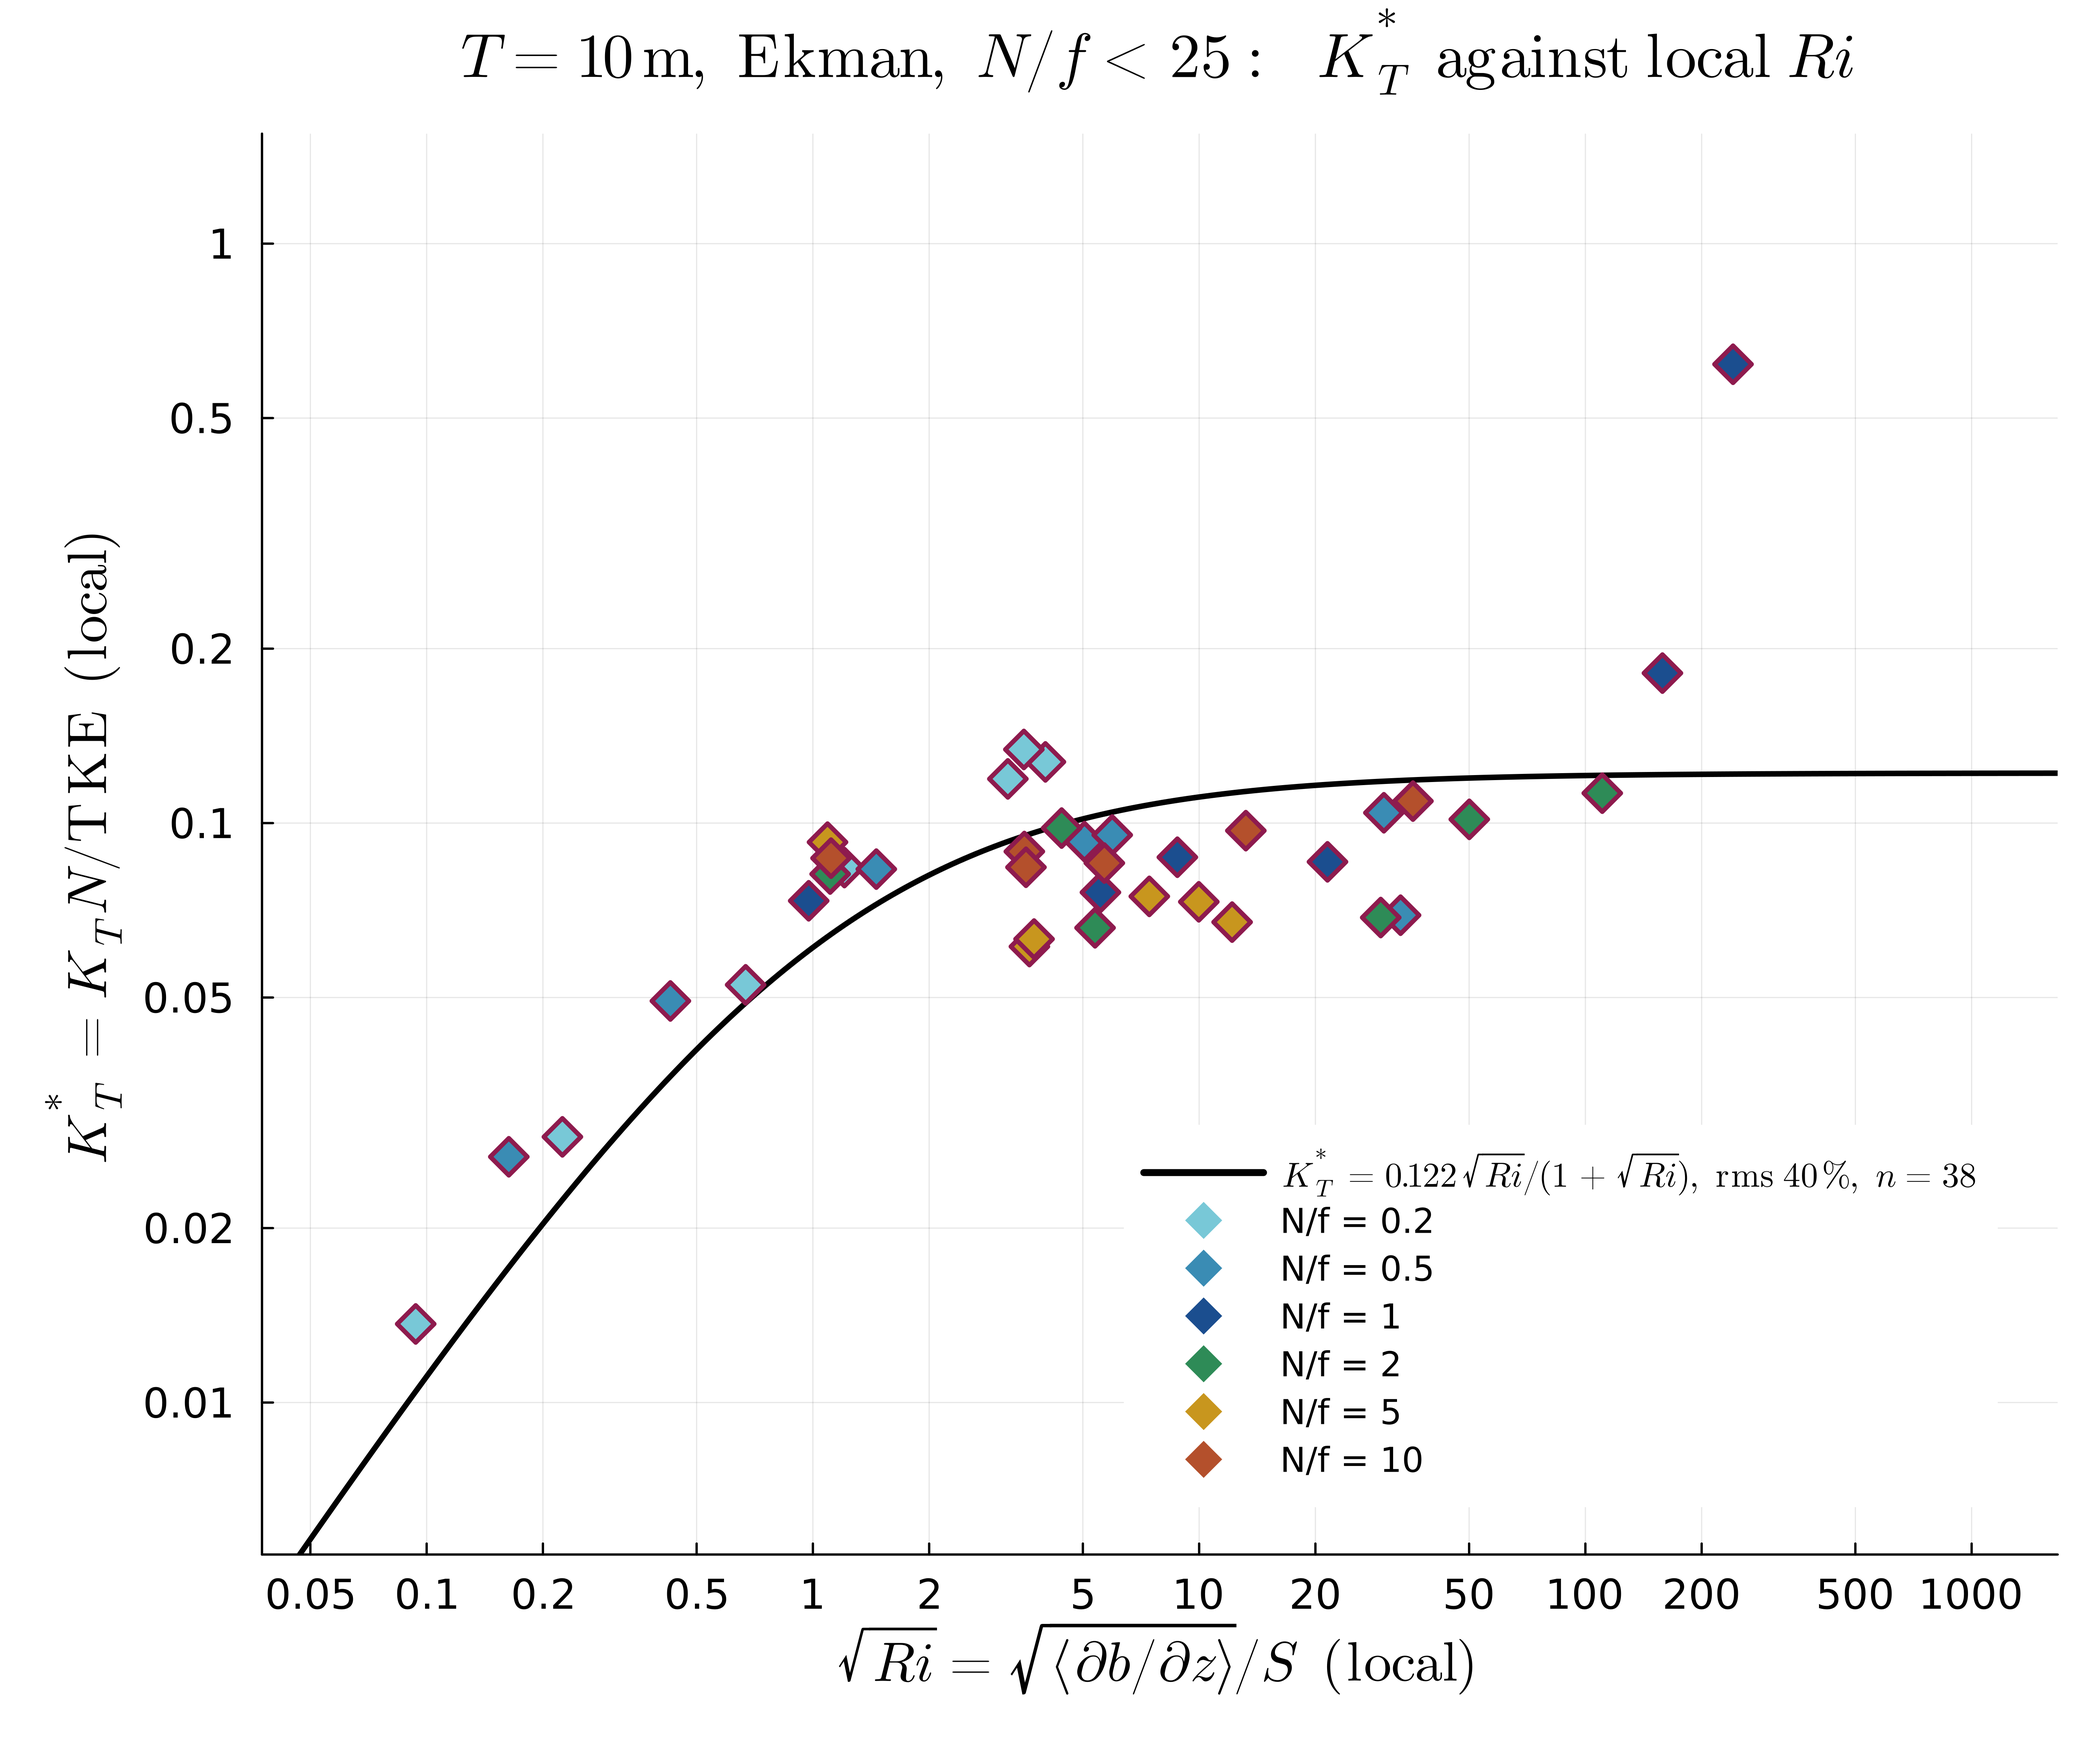
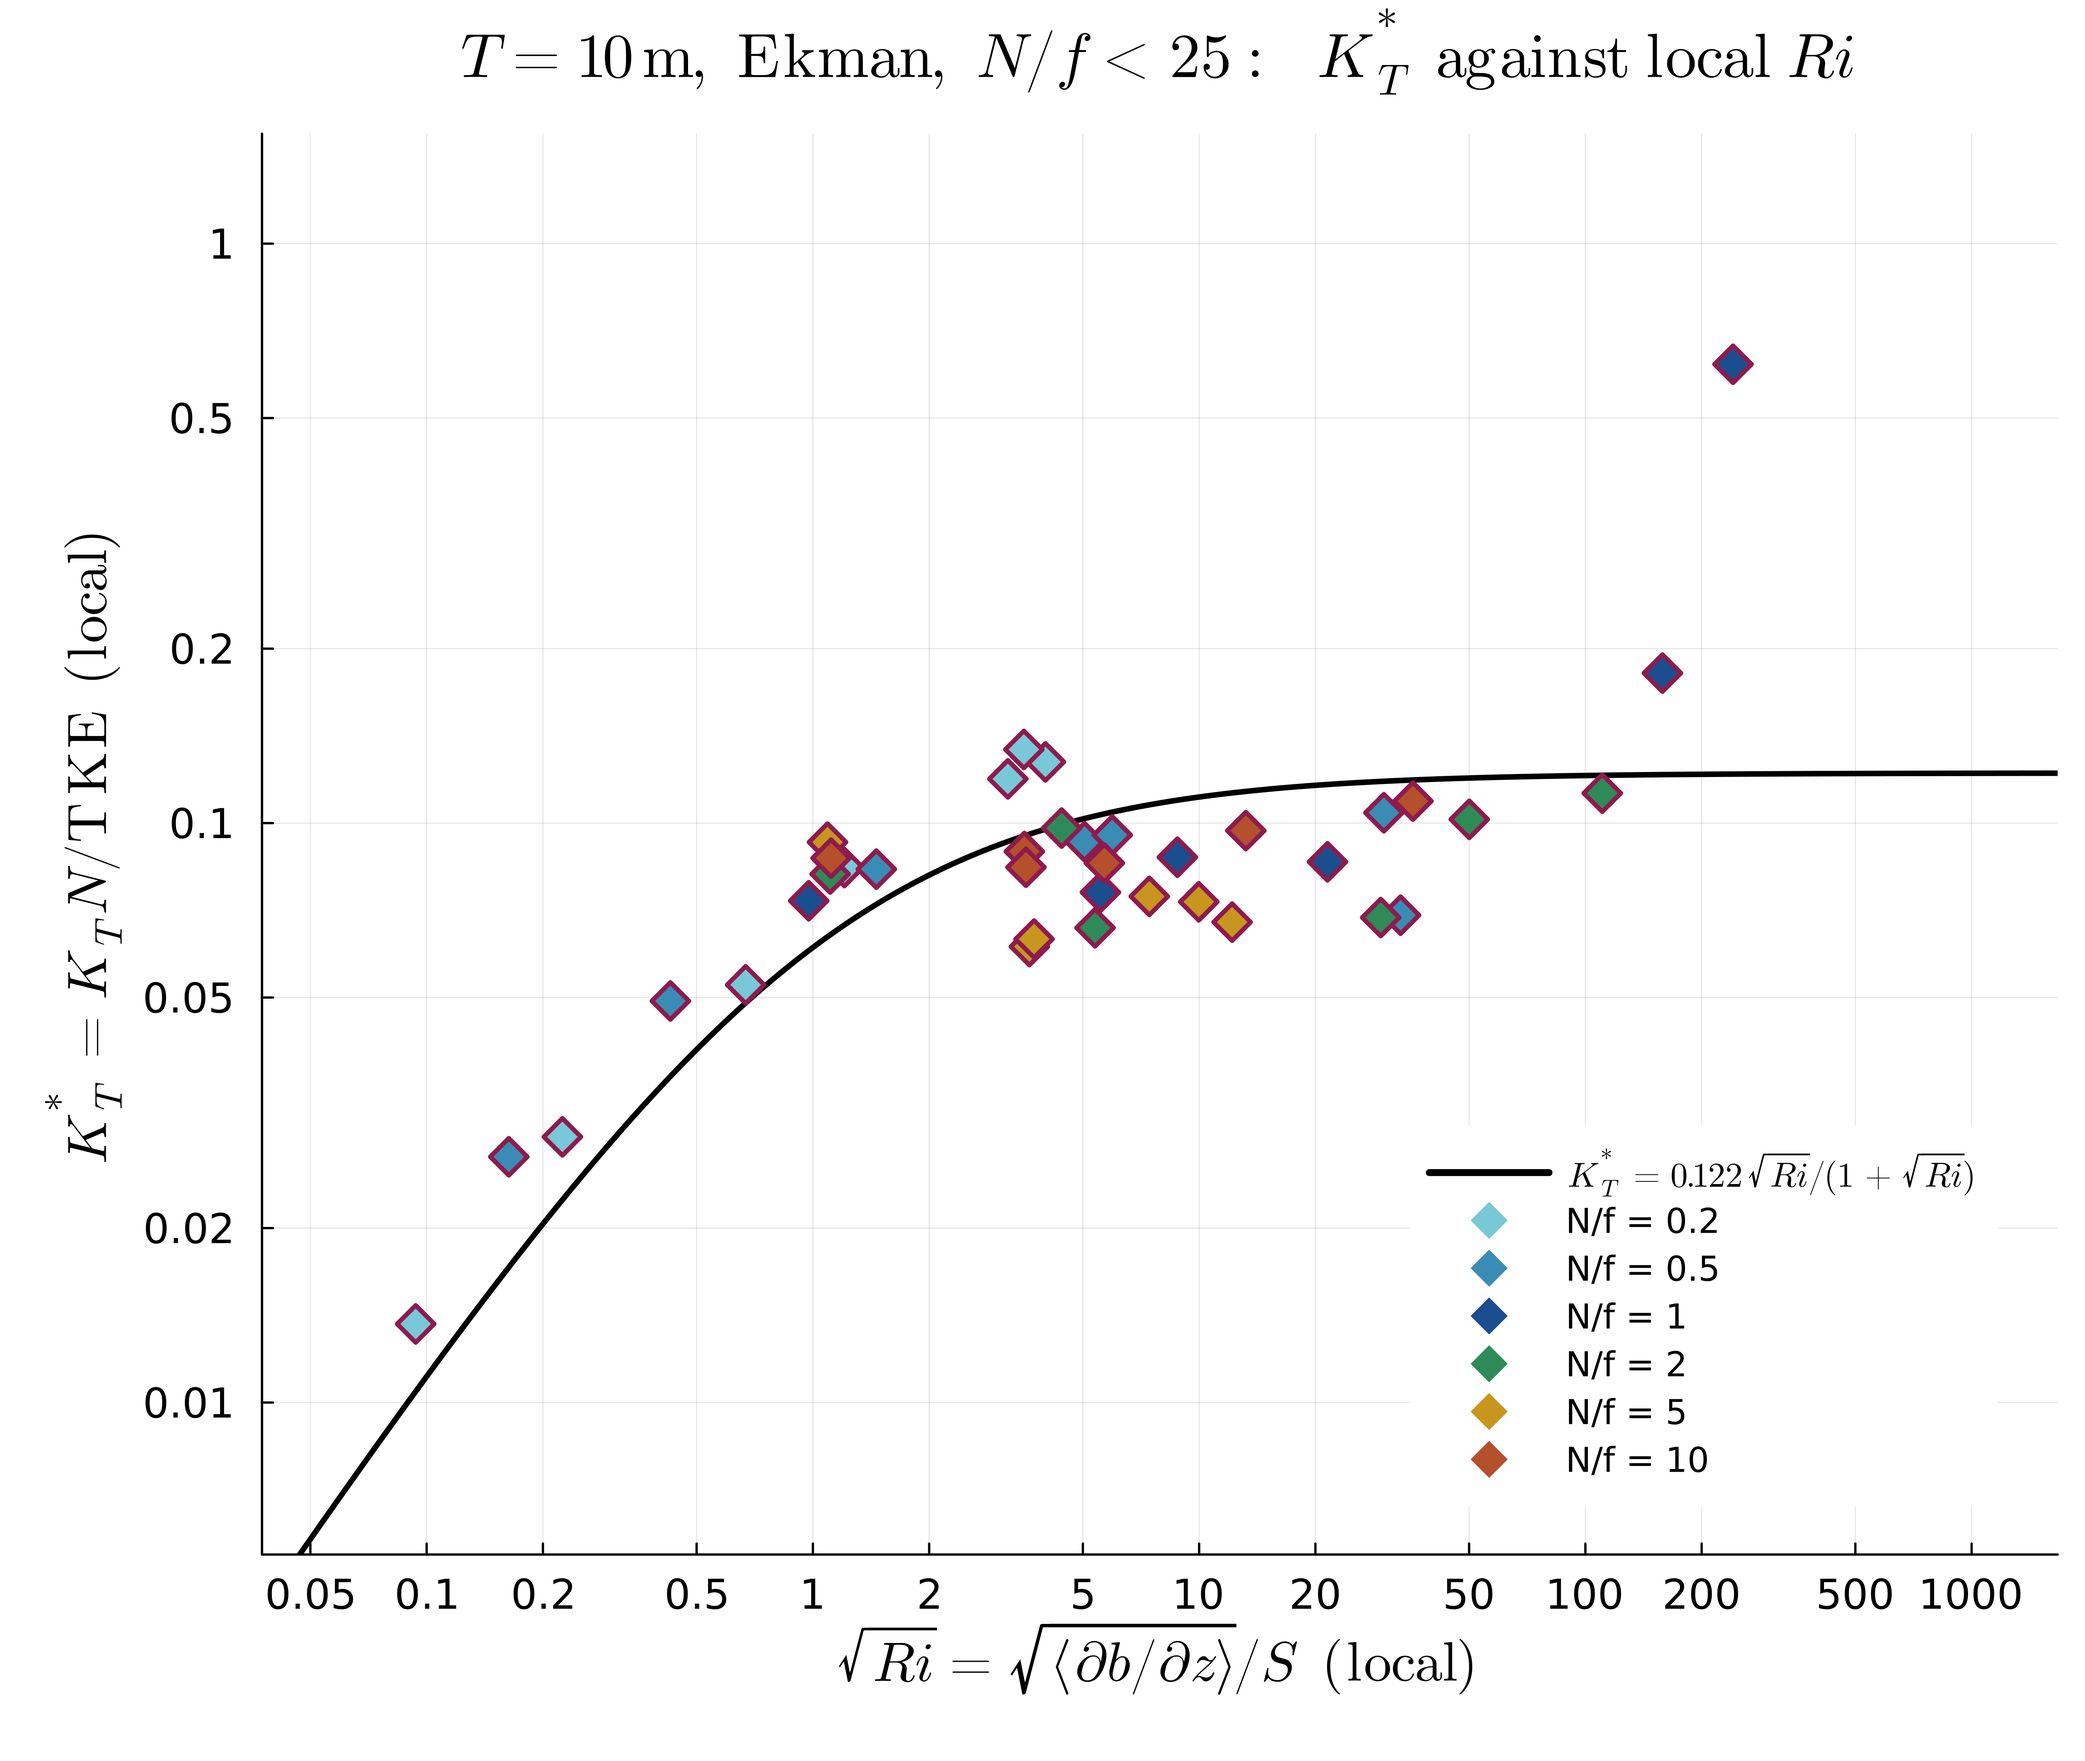
K_T final plot

Changed region(s): [[0.6222, 0.6539, 0.9644, 0.8408], [0.56, 0.6539, 0.5911, 0.8408]]

diff --git a/Combined/README.md b/Combined/README.md
@@ -514,8 +514,12 @@ so it fits worse: 26.3 % at the best height (`z = 10 m = T`), and 30–47 % over
 9–18 m. Inside the layer the gradient falls under the mask and `K_T` is
 discarded; above it `S` dies and `√Ri` runs away. The numbers are in `LOG.txt`.
 
-The panel carries a note that `K_T* ∝ N` and `Ri ∝ N²` share `N`, so some
-correlation is built in, exactly as `L_K` vs `L_harm` shares `√TKE`.
+The figure no longer carries a note, but the caveat stands: `K_T* ∝ N` and
+`Ri ∝ N²` share `N`, so some correlation is built in, exactly as `L_K` vs
+`L_harm` shares `√TKE`. Since 2026-10-09 the figure is trimmed for slides:
+title `T = 10 m, z = h, Stokes`, legend shows the fit (no rms) and the cases,
+and the two asymptote guides are still drawn but unlabelled. The rms is in
+`logs/plot_KTstar_Ri_stokes_T10.log`.
 
 ### Why this is Stokes only
 
@@ -668,7 +672,8 @@ script's Ekman row exactly (`A` = 0.1488, 52.3 %, `n` = 50), which is the check
 that the port is faithful. Two figures, same axis limits so they sit side by side:
 
 - `figures/KTstar_vs_Ri_zscan_ekman_T10.png` — all eight `r`
-- `figures/KTstar_vs_Ri_zscan_ekman_lowr_T10.png` — `r` = 25 and 50 left out (`DROP = 25`)
+- `figures/KTstar_vs_Ri_zscan_ekman_lowr_T10.png` — `r` = 25 and 50 left out (`DROP = 25`);
+  its legend shows the fit only, no rms or `n` (2026-10-09, `stats = false`); the all-`r` one keeps both
 
 | set | `A` | rms | `n` | `Ri` range |
 |---|---|---|---|---|

diff --git a/Combined/HANDOVER.md b/Combined/HANDOVER.md
@@ -177,6 +177,11 @@ one pooled exponential per flow in z/h, equation (no rms) on the figure. Stokes
 TKE/u_*^2 = 3.42 e^(-3.46 z/h), 17.6 %; Ekman (r < 25) 1.79 e^(-3.86 z/h),
 35.9 % — Ekman's decay rate depends on r, so its single line is a compromise.
 
+2026-10-09: KTstar_vs_Ri_stokes_T10.png and ..._zscan_ekman_lowr_T10.png
+trimmed for slides (no rms or n in legends, no caveat note, shorter Stokes title,
+asymptote guides unlabelled). The shared-N caveat is now only in the docs —
+say it aloud if the Stokes figure is shown.
+
 NEXT STEP: not chosen. The open list at the end of LOG.txt is the menu; the
 strongest item is a second pycnocline depth (T = 15 or 20, which already exist
 on the Stokes side), because it is the only way to tell whether the Stokes h
